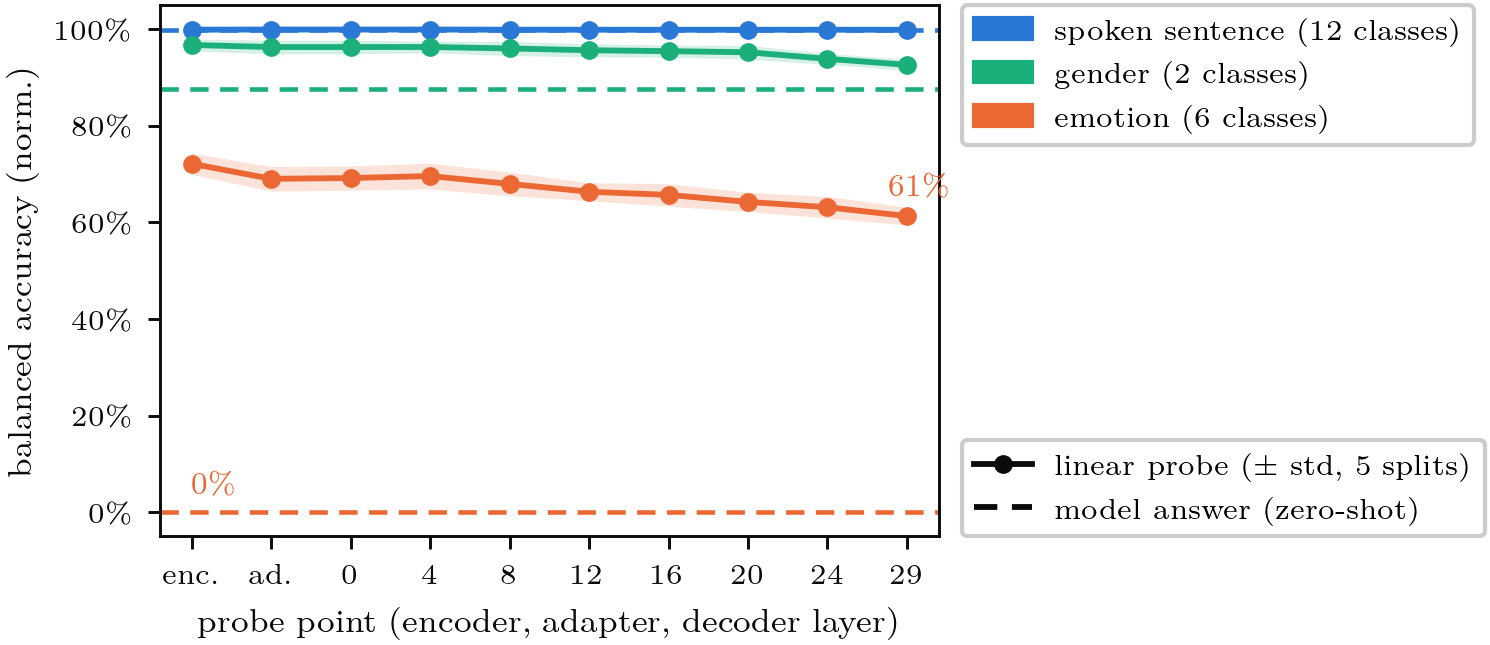
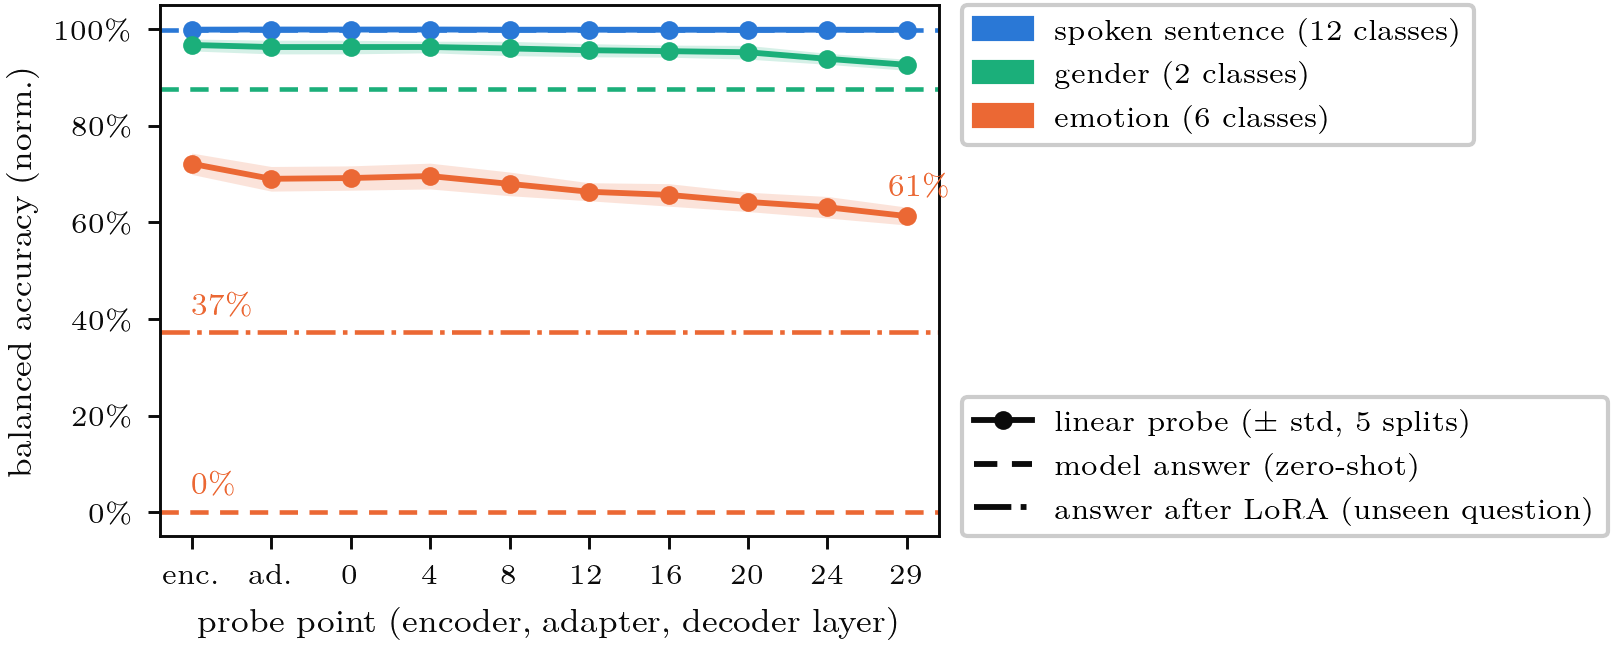
Figure: add emotion answer after LoRA (unseen question)

diff --git a/plot.py b/plot.py
@@ -17,15 +17,16 @@ HOOKS = ["encoder", "adapter", "L0", "L4", "L8", "L12", "L16", "L20", "L24", "L2
 TASKS = {"text": S.BLUE, "gender": S.AQUA, "emotion": S.ORANGE}
 WORDS = {
     "fr": {"text": "phrase prononcée (12 classes)", "gender": "genre (2 classes)", "emotion": "émotion (6 classes)",
-           "probe": "sonde linéaire (± é.-t., 5 splits)", "answer": "réponse du modèle (zéro-shot)", "x": "point de sonde (encodeur, adaptateur, couche du décodeur)",
+           "probe": "sonde linéaire (± é.-t., 5 splits)", "answer": "réponse du modèle (zéro-shot)", "lora": "réponse après LoRA (question inédite)", "x": "point de sonde (encodeur, adaptateur, couche du décodeur)",
            "y": "acc. équilibrée (norm.)", "enc": "enc.", "adapt": "ad."},
     "en": {"text": "spoken sentence (12 classes)", "gender": "gender (2 classes)", "emotion": "emotion (6 classes)",
-           "probe": "linear probe (± std, 5 splits)", "answer": "model answer (zero-shot)", "x": "probe point (encoder, adapter, decoder layer)",
+           "probe": "linear probe (± std, 5 splits)", "answer": "model answer (zero-shot)", "lora": "answer after LoRA (unseen question)", "x": "probe point (encoder, adapter, decoder layer)",
            "y": "balanced accuracy (norm.)", "enc": "enc.", "adapt": "ad."},
 }[lang]
 
 probes = {(r["hook"], r["task"]): r for r in csv.DictReader(open(out / "probe_results.csv"))}
 behavior = {(r["task"], r["variant"]): 100 * float(r["acc_norm"]) for r in csv.DictReader(open(out / "behavioral_results.csv"))}
+lora = {(r["task"], r["variant"]): 100 * float(r["acc_norm"]) for r in csv.DictReader(open(out / "behavioral_results_lora.csv"))}
 
 fig = S.figure(2.3)
 ax = fig.add_subplot()
@@ -37,6 +38,7 @@ for task, color in TASKS.items():
     ax.fill_between(x, [a - b for a, b in zip(m, s)], [a + b for a, b in zip(m, s)], color=color, alpha=0.18, lw=0)
 for task, color in TASKS.items():
     ax.axhline(behavior[task, "letter"], color=color, ls=S.DASH, lw=1.1)
+ax.axhline(lora["emotion", "open"], color=S.ORANGE, ls="-.", lw=1.1)  # LoRA on decoder layers 20-29, phrasing unseen in training
 
 pct_text = lambda v: f"{v:.0f} %" if lang == "fr" else f"{v:.0f}%"  # S.label escapes it for LaTeX
 
@@ -44,6 +46,7 @@ pct_text = lambda v: f"{v:.0f} %" if lang == "fr" else f"{v:.0f}%"  # S.label es
 top, bottom = 100 * float(probes["L29", "emotion"]["acc_norm"]), behavior["emotion", "letter"]
 S.label(ax, x[-1] + 0.15, top + 3, pct_text(top), ha="center", va="bottom", color=S.ORANGE)
 S.label(ax, x[0], bottom + 2.5, pct_text(bottom), ha="left", va="bottom", color=S.ORANGE)
+S.label(ax, x[0], lora["emotion", "open"] + 2.5, pct_text(lora["emotion", "open"]), ha="left", va="bottom", color=S.ORANGE)
 
 ax.set_xticks(x, [WORDS["enc"], WORDS["adapt"], *[h[1:] for h in HOOKS[2:]]])
 ax.set_xlim(-0.4, x[-1] + 0.4)
@@ -54,7 +57,8 @@ ax.set_ylabel(S.tex(WORDS["y"]))
 # two boxes: color = task, line style = what is measured
 tasks = [Patch(color=c, label=S.tex(WORDS[t])) for t, c in TASKS.items()]
 styles = [Line2D([], [], color=S.INK, marker="o", label=S.tex(WORDS["probe"])),
-          Line2D([], [], color=S.INK, ls=S.DASH, label=S.tex(WORDS["answer"]))]
+          Line2D([], [], color=S.INK, ls=S.DASH, label=S.tex(WORDS["answer"])),
+          Line2D([], [], color=S.INK, ls="-.", label=S.tex(WORDS["lora"]))]
 ax.add_artist(S.legend_out(ax, handles=tasks))
 S.legend_out(ax, handles=styles, loc="lower left", bbox_to_anchor=(1.03, 0.0))
 S.save(fig, "main_figure", out_dir="figures")
